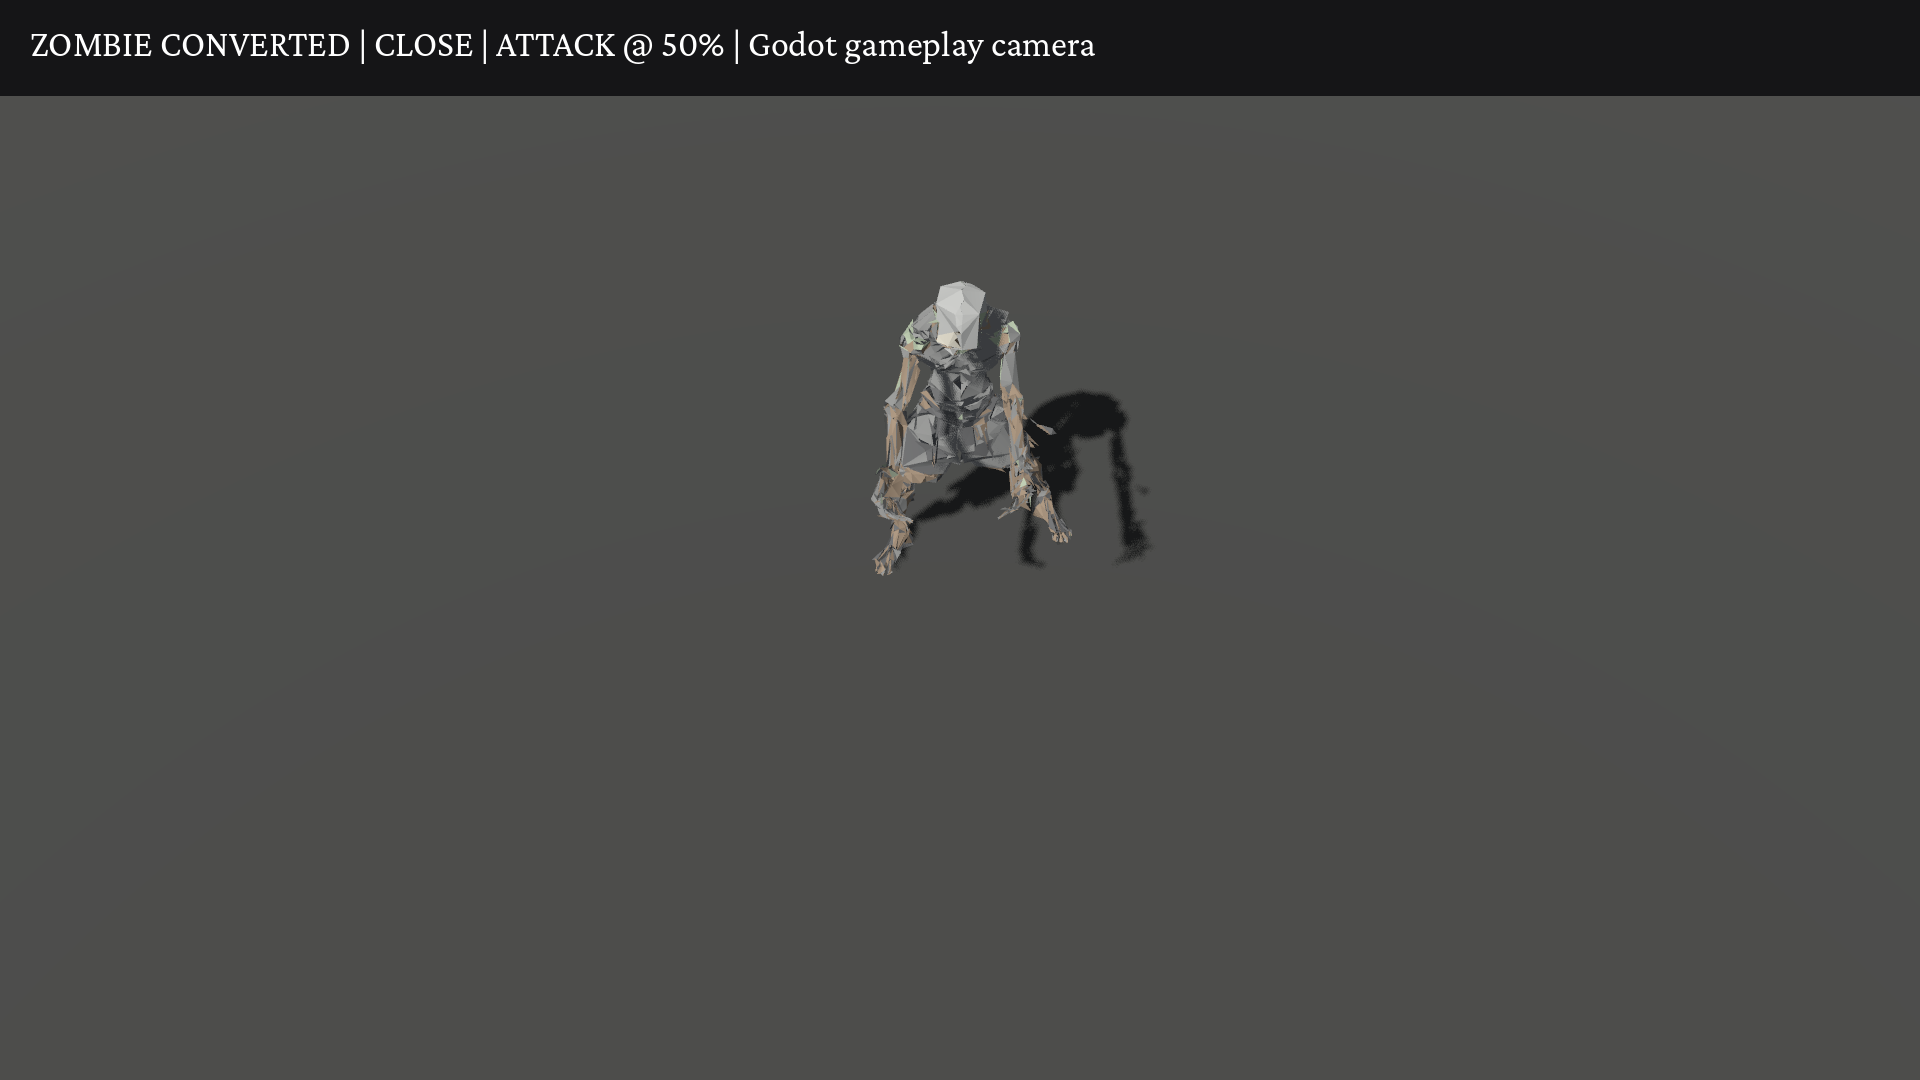
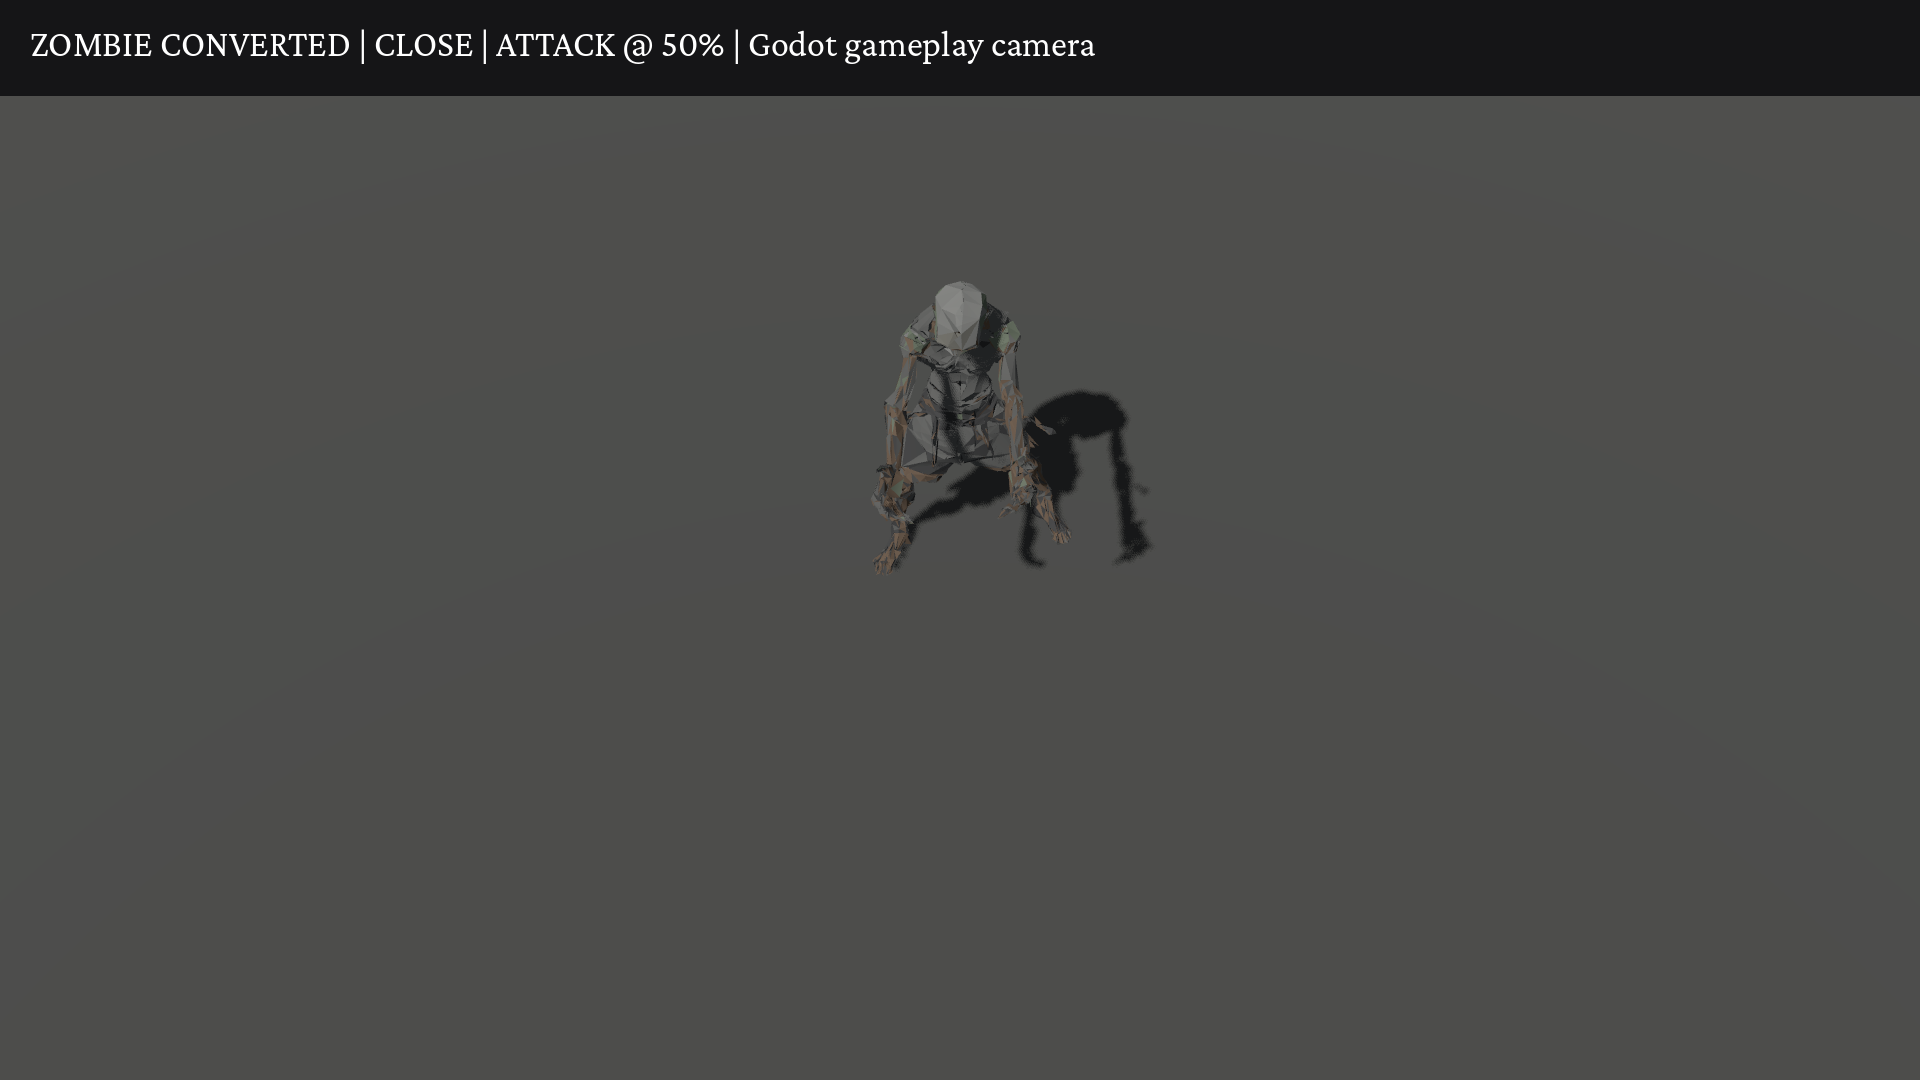
Darken and refine staged zombie conversion

Changed region(s): [[0.4375, 0.2444, 0.5625, 0.5194]]

diff --git a/tools/art/convert_live_zombie.py b/tools/art/convert_live_zombie.py
@@ -1,9 +1,9 @@
 """Staging only: convert the LIVE zombie into a faceted low-poly version that keeps its armature and skin.
 
-    blender.exe -b -P tools/art/convert_live_zombie.py -- --target 2500 --out assets/art_staging/enemies/zombie_converted
+    blender.exe -b -P tools/art/convert_live_zombie.py -- --target 4000 --out assets/art_staging/enemies/zombie_converted
 
 Steps: import assets/models/zombie/rigged.glb, pick the skinned mesh, collapse-decimate to the target
-triangle count, then a planar pass, re-normalise the skin weights, sample each face's colour from the live
+triangle count without a planar pass, re-normalise the skin weights, sample each face's colour from the live
 texture and posterise it into a small palette (one material per palette entry, so each face is a flat facet),
 and export rigged.glb with the original armature. Animations come from the live anims.res, copied next to it.
 The live files are read only; nothing under assets/models is written.
@@ -25,7 +25,10 @@ LIVE_ANIMS = os.path.join(ROOT, "assets/models/zombie/anims.res")
 
 # Muted palette from docs/ART_DIRECTION.md (earth, iron, bone, ash, sickly green and grey-blue flesh,
 # with at most two warm accents: rust and blood).
-PALETTE = {
+# Classify each decimated face against the live texture's colour family, then render it
+# with lower linear-light values. This keeps the texture's dark/mid pattern without
+# letting lit bone or skin facets outshine ash in the game renderer.
+REFERENCE_PALETTE = {
     "bone": (0.62, 0.58, 0.48),
     "ash": (0.42, 0.42, 0.40),
     "grave_grey": (0.24, 0.24, 0.23),
@@ -36,11 +39,22 @@ PALETTE = {
     "rust": (0.42, 0.22, 0.12),
     "blood": (0.32, 0.07, 0.07),
 }
+PALETTE = {
+    "bone": (0.14, 0.135, 0.115),
+    "ash": (0.16, 0.16, 0.15),
+    "grave_grey": (0.085, 0.085, 0.08),
+    "charcoal": (0.035, 0.035, 0.035),
+    "sick_green": (0.10, 0.12, 0.085),
+    "greyblue_flesh": (0.11, 0.12, 0.125),
+    "earth": (0.105, 0.07, 0.045),
+    "rust": (0.13, 0.065, 0.035),
+    "blood": (0.105, 0.02, 0.02),
+}
 
 
 def args():
     argv = sys.argv[sys.argv.index("--") + 1:] if "--" in sys.argv else []
-    target, out = 2500, os.path.join(ROOT, "assets/art_staging/enemies/zombie_converted")
+    target, out = 4000, os.path.join(ROOT, "assets/art_staging/enemies/zombie_converted")
     i = 0
     while i < len(argv):
         if argv[i] == "--target":
@@ -75,7 +89,7 @@ def sample(image, uv, pixels):
 
 def nearest_palette(rgb):
     best, best_d = None, 1e9
-    for idx, (name, c) in enumerate(PALETTE.items()):
+    for idx, (name, c) in enumerate(REFERENCE_PALETTE.items()):
         d = (rgb.x - c[0]) ** 2 + (rgb.y - c[1]) ** 2 + (rgb.z - c[2]) ** 2
         if d < best_d:
             best, best_d = idx, d
@@ -106,19 +120,14 @@ def main():
         pixels = array("f", [0.0]) * (image.size[0] * image.size[1] * 4)
         image.pixels.foreach_get(pixels)
 
-    # decimate: collapse to the target, then a planar pass to flatten near-coplanar faces
+    # Collapse alone keeps the silhouette while avoiding the planar dissolve's
+    # long slivers and apparent holes at animated joints.
     ratio = min(1.0, float(target) / float(before))
     dec = obj.modifiers.new("Collapse", "DECIMATE")
     dec.decimate_type = "COLLAPSE"
     dec.ratio = ratio
     bpy.ops.object.modifier_apply(modifier=dec.name)
     print("AFTER_COLLAPSE %d" % tri_count(obj))
-    pl = obj.modifiers.new("Planar", "DECIMATE")
-    pl.decimate_type = "DISSOLVE"
-    pl.angle_limit = 0.0873  # 5 degrees: merge only near-flat regions
-    bpy.ops.object.modifier_apply(modifier=pl.name)
-    print("AFTER_PLANAR %d" % tri_count(obj))
-
     # face colours after decimation: decimate changes the face set, so resample from the original UVs
     # is not possible; instead re-sample from the surviving faces' centres in UV space.
     mesh = obj.data
